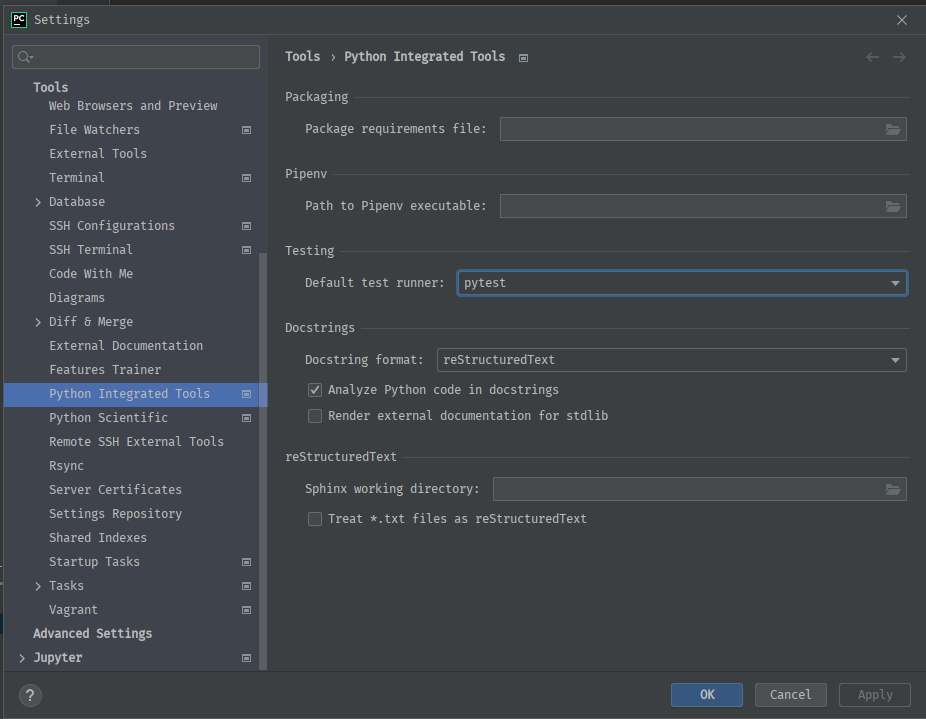
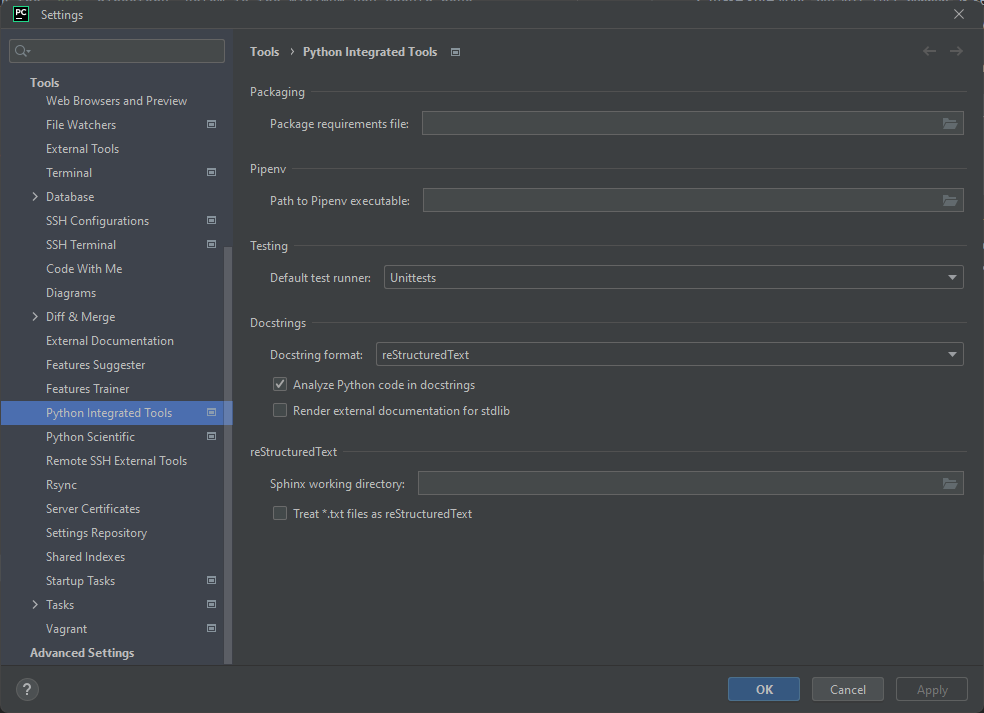
simplified file structure

diff --git a/tests/test_kyu_six.py b/tests/test_kyu_six.py
@@ -1,0 +1,50 @@
+from unittest import TestCase
+
+from src.kyu_six import to_camel_case, duplicate_encode
+
+
+class Test(TestCase):
+    # region to_camel_case
+    def test_to_camel_case_empty(self):
+        result = to_camel_case("")
+        expected = ""
+        assert result == expected
+
+    def test_to_camel_case_snake(self):
+        result = to_camel_case("the_stealth_warrior")
+        expected = "theStealthWarrior"
+        assert result == expected
+
+    def test_to_camel_case_dash(self):
+        result = to_camel_case("The-Stealth-Warrior")
+        expected = "TheStealthWarrior"
+        assert result == expected
+
+    def test_to_camel_case_screaming_dash(self):
+        result = to_camel_case("A-B-C")
+        expected = "ABC"
+        assert result == expected
+
+    # endregion
+
+    # region duplicate_encode
+    def test_duplicate_encode_no_dupes(self):
+        result = duplicate_encode("din")
+        expected = "((("
+        assert result == expected
+
+    def test_duplicate_encode_some_dupes(self):
+        result = duplicate_encode("recode")
+        expected = "()()()"
+        assert result == expected
+
+    def test_duplicate_encode_case_sensitive(self):
+        result = duplicate_encode("Success")
+        expected = ")())())"
+        assert result == expected
+
+    def test_duplicate_encode_special_chars(self):
+        result = duplicate_encode("(( @")
+        expected = "))(("
+        assert result == expected
+    # endregion

diff --git a/src/kyu_six.py b/src/kyu_six.py
@@ -27,3 +27,31 @@ def to_camel_case(text):
                 result += word
 
     return result
+
+
+def duplicate_encode(word):
+    """
+    https://www.codewars.com/kata/54b42f9314d9229fd6000d9c/train/python
+
+    The goal of this exercise is to convert a string to a new string where each character in the new string is "(" if
+    that character appears only once in the original string, or ")" if that character appears more than once in the
+    original string. Ignore capitalization when determining if a character is a duplicate.
+
+    Examples
+
+    "din"      =>  "((("
+    "recede"   =>  "()()()"
+    "Success"  =>  ")())())"
+    "(( @"     =>  "))(("
+
+    Notes
+
+    Assertion messages may be unclear about what they display in some languages. If you read "...It Should encode
+    XXX", the "XXX" is the expected result, not the input!
+
+    :param word:
+    :return:
+    """
+    # your code here
+
+    return "((("

diff --git a/README.md b/README.md
@@ -6,10 +6,11 @@ examples
 ## Getting started
 
 1. once you've opened the project in pycharm, navigate to `file` > `settings` > `tools` > `python integrated tools`
-2. make sure your `default test runner` is set to `pytest` or `Autodetect (pytest)`
+2. make sure your `default test runner` is set to `Unittests` or `Autodetect (Unittests)`
     1. If you have to change your test runner, you might get a message about your project. Just click the fix button  
        <img alt="settings" src="/admin/image/settings_unit_tests.png"/>
-3. follow the file layout to add a new problem in the `src` directory. Below is the minimum you should have.
+3. to create a new function, copy below and paste it to the bottom of `kyu_six.py` OR follow the same format to create a
+new kyu file. Below is the minimum you should have.
    ```python
    def function_name(arg): # pick a name that makes sense
       """kata prompt"""
